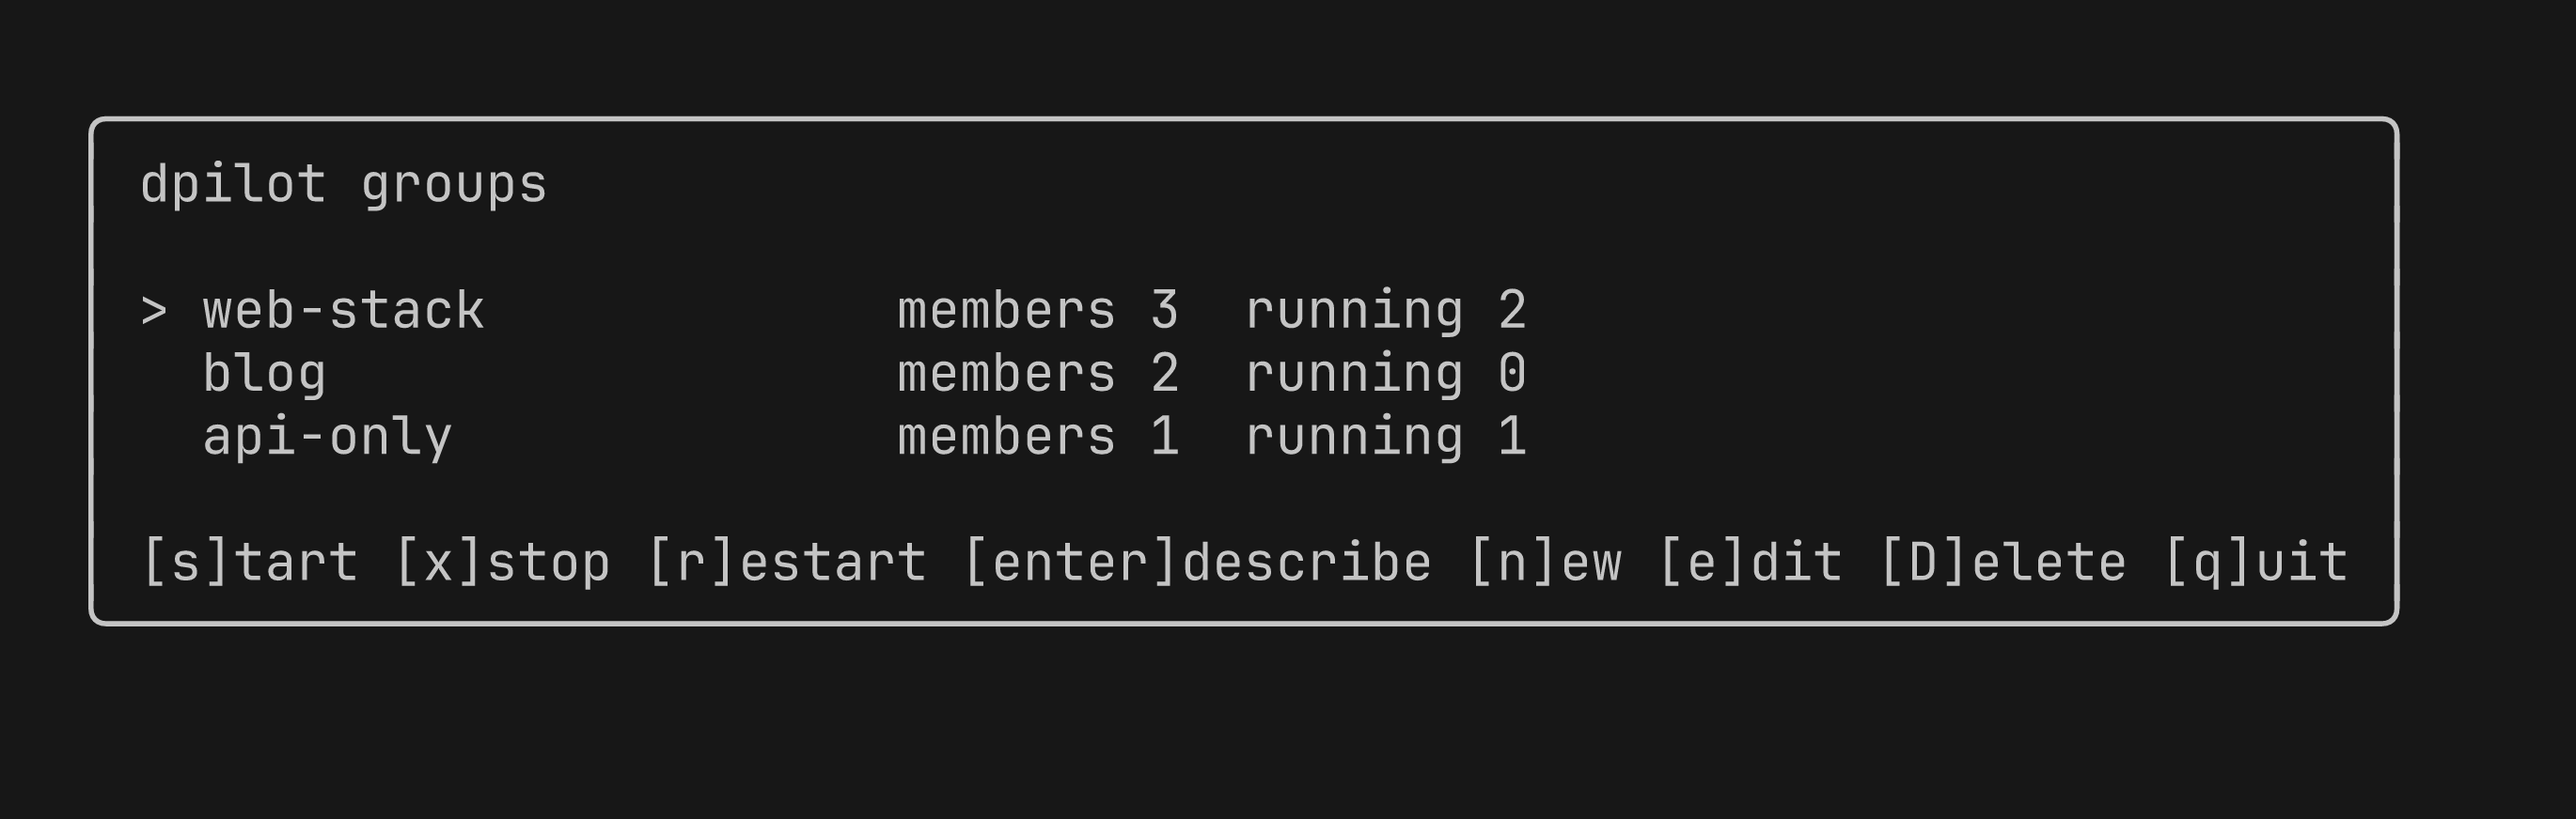
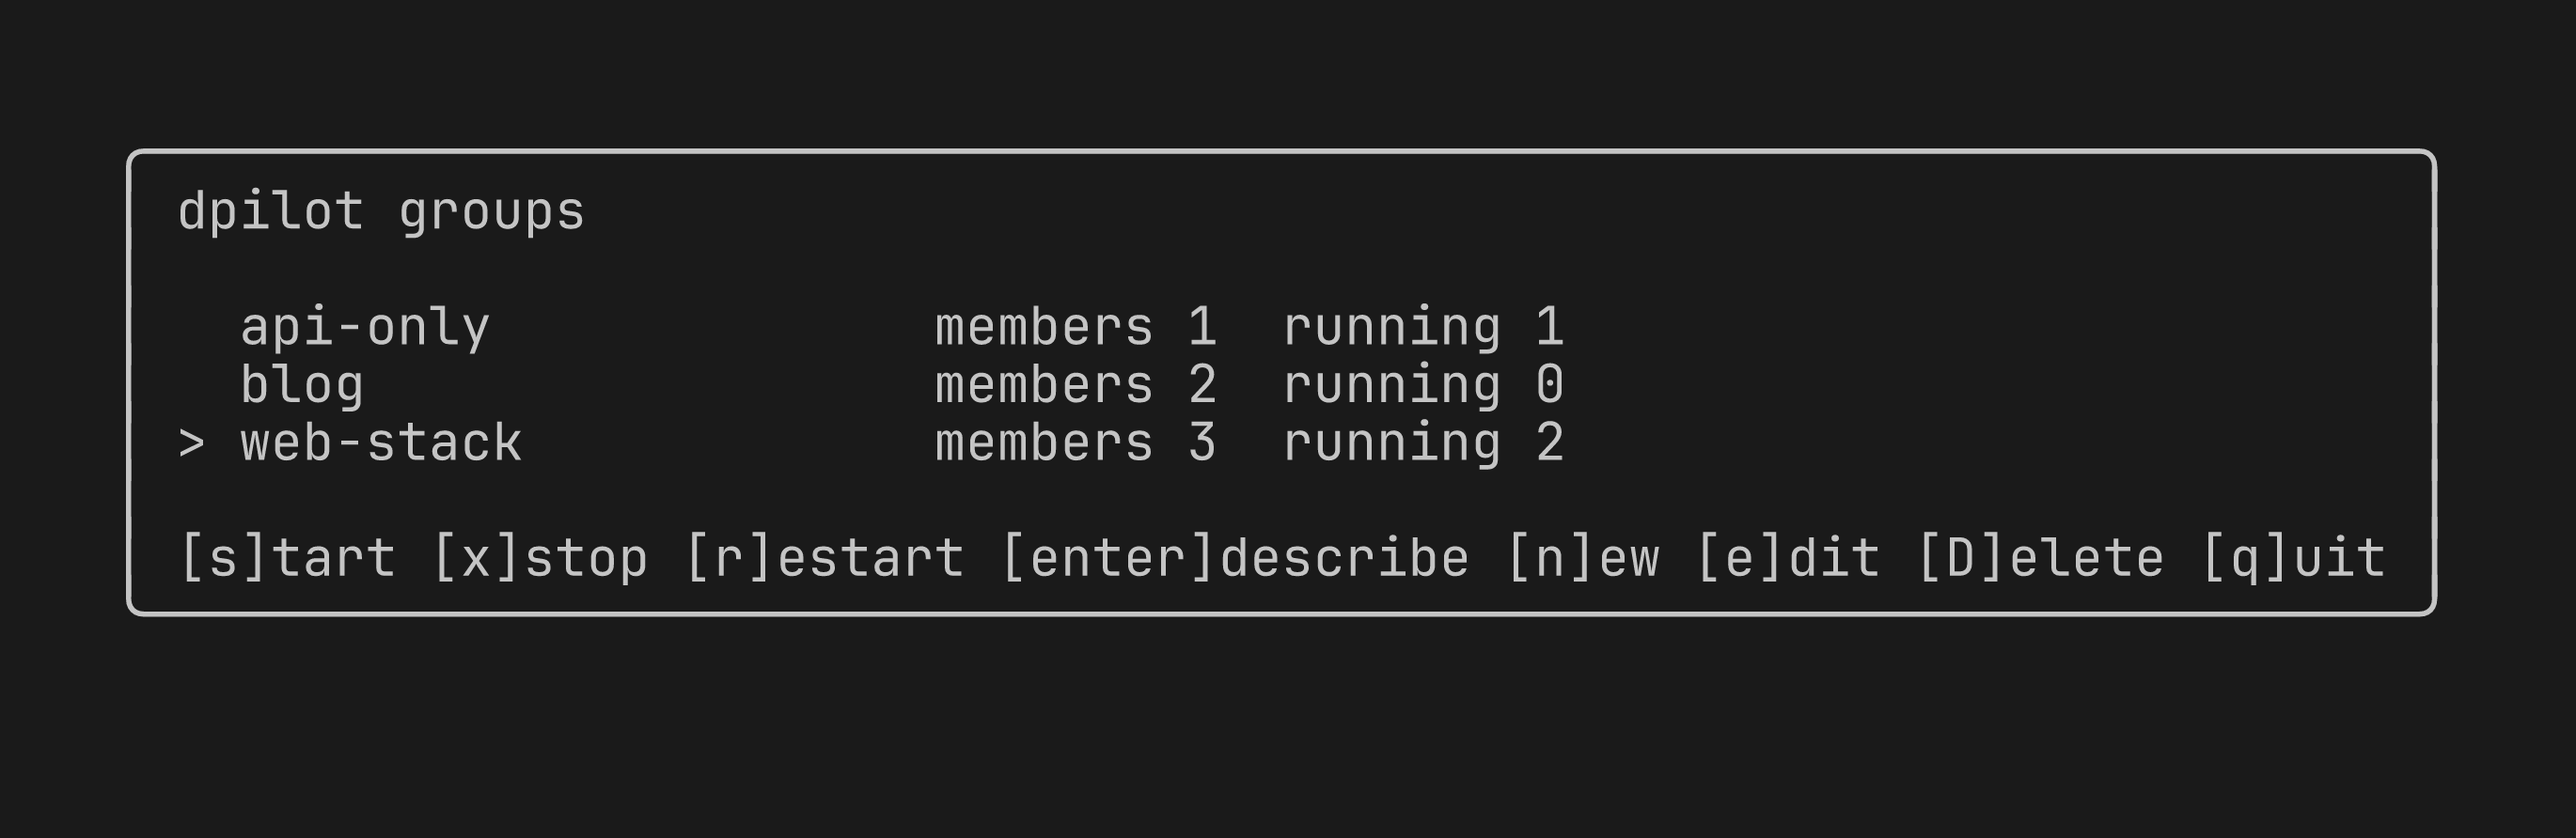
Refresh README screenshots and TUI notes for the current behaviour
The editor screenshot still showed stopped projects in yellow; since the ddev colour rules landed they are red, and the dashboard now lists groups in name order. Both images are re-captured from the current build with the same fixture data. The create row says that on a terminal it opens the editor, and the TUI section mentions scrolling lists, the 3 s refresh, the 30 s ddev call limit and where failures are shown.

Changed region(s): [[0.031, 0.1239, 0.9617, 0.7741], [0.3412, 0.3406, 0.6204, 0.5573]]

diff --git a/README.md b/README.md
@@ -68,7 +68,7 @@ aliases of `start` and `stop`.
 | `dpilot restart <group ...>` | | Stop (best-effort) then start (fail-fast). With `--all`/`-a`: stop every group in reverse name order, then start every group in name order. |
 | `dpilot list` | `l`, `ls` | List all groups with aggregate state in a ddev-style table. A group whose file cannot be loaded is listed as `invalid` with its error; the others are unaffected and the command still exits 0 (`-j` carries an `error` field on that row). |
 | `dpilot describe <group>` | `status`, `st`, `desc` | Show a group's members in order with their live ddev state. |
-| `dpilot create <group>` | | Scaffold an empty group file. Errors if the group already exists. |
+| `dpilot create <group>` | | Create a group: on a terminal this opens the group editor (see below); otherwise it scaffolds an empty group file. Errors if the group already exists. |
 | `dpilot add <group> <project> [--after <member>]` | | Append a member, or insert it after a named member. Validates the project exists via `ddev list -j`. |
 | `dpilot remove <group> <project>` | | Drop a member from the group. |
 | `dpilot delete <group>` | | Delete the group file. Asks `OK to delete group "<name>"? [Y/n]` on a terminal (blank answer means yes, as in ddev); when not interactive it refuses without `-y`, where ddev would take the default. |
@@ -136,6 +136,11 @@ view of your groups:
 - `enter` describe the selected group (members and live state).
 - `n` create a new group, `e` edit the selected group, `D` delete it.
 - `q` or `ctrl-c` quit.
+
+Lists longer than the terminal scroll with the cursor and mark hidden rows with
+`… N more above/below`. The dashboard refreshes every 3 seconds; each ddev call it
+makes is limited to 30 seconds, and a failed action or a group file that will not
+load is reported inside the box.
 
 Run `dpilot create <group>` in a terminal to open the group editor (the same
 picker reached from the dashboard's `n` and `e`):
